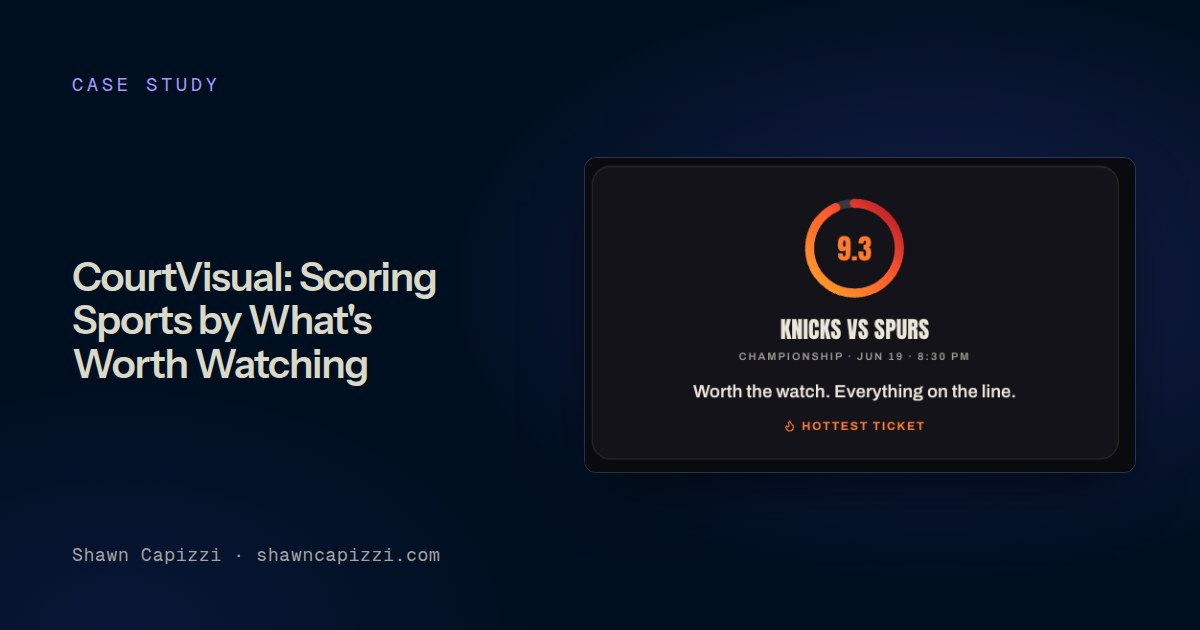
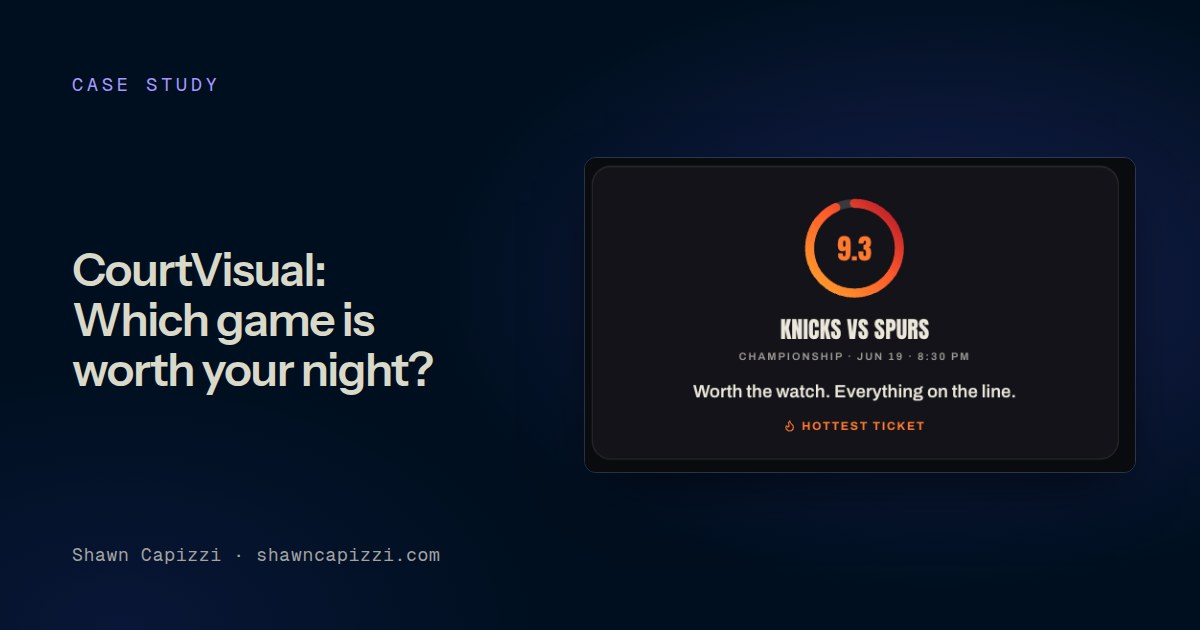
Work pages: outcome headlines, keyword search titles, hyphen-safe titles, refreshed share images

Changed region(s): [[0.0617, 0.3921, 0.37, 0.6333]]

diff --git a/app/work/page.tsx b/app/work/page.tsx
@@ -3,19 +3,20 @@ import Image from "next/image";
 import Link from "next/link";
 import { pageMetadata } from "@/lib/seo";
 import { CTACards } from "@/components/CTACards";
+import { KeepHyphens } from "@/components/KeepHyphens";
 
 export const metadata = pageMetadata({
   path: "/work",
-  title: "Selected Work",
+  title: "Work: Service Design and UX Case Studies",
   description:
-    "Fifteen years of enterprise experience design across pharma, healthcare, and finance. Engagements where the structure of the experience changed the structure of the business outcome.",
+    "Case studies in service design, experience architecture, UX, CX, design systems, and AI-native product design across pharma, healthcare, and finance.",
 });
 
 const CASE_STUDIES = [
   {
     slug: "pharma-design-systems",
     eyebrow: "Multi-Brand · 3x Design Systems · Governance",
-    title: "Building digital governance across 70+ therapeutic brands",
+    title: "Bringing 70+ pharma brands under one governance model",
     description:
       "$3.5M+ in digital transformation. Three enterprise design systems. Industry-first mobile wallet integration for patient medication information.",
     image: "/images/hero/consumer-care-hub-hero-balanced.gif",
@@ -23,8 +24,7 @@ const CASE_STUDIES = [
   {
     slug: "enterprise-financial-services-crm",
     eyebrow: "Bloomberg · Financial services · Enterprise CRM",
-    title:
-      "Redesigning rep workflows in a terminal-driven CRM environment",
+    title: "Redesigning a terminal-based CRM to return $1.5M+ annually",
     description:
       "$1.5M+ in annual ROI. Architectural inquiry across three rep types. Faster scanability, quicker decisions, measurable time-in-task reduction across the rep experience.",
     image:
@@ -52,8 +52,7 @@ const CASE_STUDIES = [
   {
     slug: "multi-brand-pharma-sales-tools",
     eyebrow: "Multi-Brand Design System · Veeva + Salesforce",
-    title:
-      "A modular sales design system that supports a multi-brand product portfolio",
+    title: "12 fragmented sales tools updated to one optimized new design system",
     description:
       "12 sales tools consolidated into 33 reusable components. Adoption from 65% to 92%. 40% reduction in search time during HCP conversations.",
     image:
@@ -62,7 +61,7 @@ const CASE_STUDIES = [
   {
     slug: "ai-native-product-design-lab",
     eyebrow: "Solo · AI Native Design Lab",
-    title: "Building an AI-native product design lab",
+    title: "How I use AI to get from idea to in-market software faster",
     description:
       "A working AI-native product design practice: UXR tools, prototype agents, healthcare-first applications. Vendor-agnostic AI advisory grounded in hands-on work.",
     image:
@@ -82,12 +81,13 @@ export default function Page() {
         <div className="max-w-content mx-auto px-6 md:px-8 lg:px-12">
           <p className="eyebrow mb-3">Work</p>
           <h1 className="headline-static hero-title text-balance max-w-4xl">
-            Engagements where experience structure changed the business outcome.
+            The work, and what changed because of it.
           </h1>
           <p className="hero-lead max-w-3xl">
-            Fifteen years of enterprise experience design across pharma, healthcare,
-            and finance, alongside live products I designed, built, and shipped
-            myself.
+            Fifteen years of service design, experience architecture, product
+            strategy, UX, CX, and design systems on enterprise platforms in
+            pharma, healthcare, and finance. Plus AI-native products I designed,
+            built, and shipped myself.
           </p>
         </div>
       </section>
@@ -115,7 +115,7 @@ export default function Page() {
                 <div className="p-7 md:p-10">
                   <p className="eyebrow mb-4">{cs.eyebrow}</p>
                   <h2 className="card-title text-text-primary group-hover:text-link transition-colors">
-                    {cs.title}
+                    <KeepHyphens>{cs.title}</KeepHyphens>
                   </h2>
                   <p className="mt-4 text-text-secondary leading-relaxed">
                     {cs.description}

diff --git a/app/work/courtvisual/page.tsx b/app/work/courtvisual/page.tsx
@@ -6,14 +6,14 @@ import { caseStudyGraph, pageMetadata } from "@/lib/seo";
 
 const META = {
   path: "/work/courtvisual",
-  title: "CourtVisual: Scoring Sports by What's Worth Watching",
+  title: "CourtVisual: Which Game Is Worth Your Night?",
   description:
     "A multi-sport app that scores how worth watching tonight's games are, tuned to your taste, then points you where to watch and how to get in. Product, build, and go-to-market shipped solo, concept to live PWA, with AI as the partner.",
   image: {
     url: "/images/og/courtvisual.jpg",
     width: 1200,
     height: 630,
-    alt: "CourtVisual: Scoring Sports by What's Worth Watching, a case study by Shawn Capizzi",
+    alt: "CourtVisual: Which game is worth your night? A case study by Shawn Capizzi",
   },
 };
 
@@ -27,7 +27,7 @@ export default function Page() {
       structuredData={caseStudyGraph(META)}
       eyebrow="(Case Study)"
       title="CourtVisual"
-      subtitle="A multi-sport app that scores how worth watching tonight's games are, tuned to you, then sends you where to watch and how to get in. Product, build, and go-to-market run solo, concept to live PWA, with AI as the build partner."
+      subtitle="Which game is worth your night? A multi-sport app that scores tonight's games 0 to 10, tuned to you, then shows where to watch and how to get in. Designed, built, and shipped solo, concept to live PWA, with AI as the build partner."
       heroImage={`${ASSET_BASE}/02-game-card-score-ring.png`}
       heroImageAlt="CourtVisual home screen: a Knicks game scored 9.3 out of 10, with the team and sport picker"
       heroSlot={

diff --git a/app/work/ai-native-product-design-lab/page.tsx b/app/work/ai-native-product-design-lab/page.tsx
@@ -7,14 +7,14 @@ import { caseStudyGraph, pageMetadata } from "@/lib/seo";
 
 const META = {
   path: "/work/ai-native-product-design-lab",
-  title: "AI-Native Product Design Lab",
+  title: "AI-Native Product Design: Idea to In-Market",
   description:
     "How I design, build, and ship with AI: production software designed and shipped solo, working prototypes in days, and a Figma plugin in the Community.",
   image: {
     url: "/images/og/ai-native-product-design-lab.jpg",
     width: 1200,
     height: 630,
-    alt: "AI-Native Product Design Lab, a case study by Shawn Capizzi",
+    alt: "How I use AI to get from idea to in-market software faster, a case study by Shawn Capizzi",
   },
 };
 
@@ -67,8 +67,8 @@ export default function Page() {
     <CaseStudyLayout
       structuredData={caseStudyGraph(META)}
       eyebrow="(Case Study)"
-      title="AI-Native Product Design Lab"
-      subtitle="How I design, build, and ship with AI. Working prototypes in days, and production software shipped solo, built on years of bringing teams together."
+      title="How I use AI to get from idea to in-market software faster"
+      subtitle="AI-native product design in practice: production software shipped solo, working prototypes in days, and a Figma plugin in the Community."
       heroImage={`${ASSET_BASE}/01-hero-ai-native-design-lab.png`}
       heroImageAlt="AI-Native Design Lab, disease-first patient support hero"
       metadata={[

diff --git a/app/work/pharma-design-systems/page.tsx b/app/work/pharma-design-systems/page.tsx
@@ -7,14 +7,14 @@ import { caseStudyGraph, pageMetadata } from "@/lib/seo";
 
 const META = {
   path: "/work/pharma-design-systems",
-  title: "Pharma Design Systems & Multi-Brand Architecture",
+  title: "Pharma Design Systems for 70+ Brands",
   description:
     "Governing 70+ product brands with 3 design systems. $3.5M+ in digital transformation, three enterprise design systems serving HCP, DTC, and patient audiences, and an industry-first mobile wallet integration.",
   image: {
     url: "/images/og/pharma-design-systems.jpg",
     width: 1200,
     height: 630,
-    alt: "Pharma Design Systems & Multi-Brand Architecture, a case study by Shawn Capizzi",
+    alt: "Bringing 70+ pharma brands under one governance model, a case study by Shawn Capizzi",
   },
 };
 
@@ -25,8 +25,8 @@ export default function Page() {
     <CaseStudyLayout
       structuredData={caseStudyGraph(META)}
       eyebrow="(Case Study)"
-      title="Pharma Design Systems & Multi-Brand Architecture"
-      subtitle="Governing 70+ product brands across 3 design systems and $3.5M+ in digital transformation."
+      title="Bringing 70+ pharma brands under one governance model"
+      subtitle="Three design systems for HCP, DTC, and patient audiences, and $3.5M+ in digital transformation."
       heroImage="/images/hero/consumer-care-hub-hero-balanced.gif"
       heroImageAlt="Consumer care hub homepage. A new offer to help Americans save."
       metadata={[

diff --git a/app/work/enterprise-financial-services-crm/page.tsx b/app/work/enterprise-financial-services-crm/page.tsx
@@ -5,14 +5,14 @@ import { caseStudyGraph, pageMetadata } from "@/lib/seo";
 
 const META = {
   path: "/work/enterprise-financial-services-crm",
-  title: "Enterprise Financial Services CRM Transformation",
+  title: "Bloomberg CRM Redesign: $1.5M+ Annual ROI",
   description:
     "Redesigning rep workflows inside a terminal-driven CRM environment used company-wide. Architectural inquiry across three salesperson types. $1.5M+ in annual ROI.",
   image: {
     url: "/images/og/enterprise-financial-services-crm.jpg",
     width: 1200,
     height: 630,
-    alt: "Enterprise Financial Services CRM Transformation, a case study by Shawn Capizzi",
+    alt: "Redesigning a terminal-based CRM to return $1.5M+ annually, a case study by Shawn Capizzi",
   },
 };
 
@@ -26,8 +26,8 @@ export default function Page() {
     <CaseStudyLayout
       structuredData={caseStudyGraph(META)}
       eyebrow="(Case Study)"
-      title="Enterprise Financial Services CRM Transformation"
-      subtitle="Redesigning rep workflows inside a terminal-driven CRM environment used company-wide."
+      title="Redesigning a terminal-based CRM to return $1.5M+ annually"
+      subtitle="A faster, clearer workflow built around the way three distinct salesperson types actually worked."
       heroImage={`${ASSET_BASE}/01-hero-final-person-view-terminal.png`}
       heroImageAlt="Final Person View in terminal CRM environment"
       metadata={[

diff --git a/app/work/multi-brand-pharma-sales-tools/page.tsx b/app/work/multi-brand-pharma-sales-tools/page.tsx
@@ -7,14 +7,14 @@ import { caseStudyGraph, pageMetadata } from "@/lib/seo";
 
 const META = {
   path: "/work/multi-brand-pharma-sales-tools",
-  title: "Multi-Brand Sales Design System",
+  title: "Pharma Sales Design System, 92% Adoption",
   description:
     "A modular sales design system consolidating 12 fragmented tools across a multi-brand neurological portfolio. 33 reusable components. Adoption from 65% to 92%.",
   image: {
     url: "/images/og/multi-brand-pharma-sales-tools.jpg",
     width: 1200,
     height: 630,
-    alt: "Multi-Brand Sales Design System, a case study by Shawn Capizzi",
+    alt: "12 fragmented sales tools updated to one optimized new design system, a case study by Shawn Capizzi",
   },
 };
 
@@ -28,8 +28,8 @@ export default function Page() {
     <CaseStudyLayout
       structuredData={caseStudyGraph(META)}
       eyebrow="(Case Study)"
-      title="Multi-Brand Sales Design System"
-      subtitle="Consolidating 12 fragmented tools into 33 reusable components across a multi-brand neurological portfolio. Adoption climbed from 65% to 92%."
+      title="12 fragmented sales tools updated to one optimized new design system"
+      subtitle="Adoption rose from 65% to 92%, while search time fell 40%."
       heroImage={`${ASSET_BASE}/01-hero-lead-brand-wireframe-to-product.png`}
       heroImageAlt="Lead MS brand homepage wireframe alongside the finished product"
       metadata={[

diff --git a/components/KeepHyphens.tsx b/components/KeepHyphens.tsx
@@ -1,0 +1,28 @@
+import { Fragment, type ReactNode } from "react";
+
+/**
+ * KeepHyphens: renders a headline string so hyphenated words
+ * ("in-market", "terminal-based") never break at the hyphen.
+ *
+ * Browsers treat a hyphen as a line-break opportunity, and Instrument Sans
+ * has no non-breaking hyphen glyph (U+2011), so each hyphenated word is
+ * wrapped in a nowrap span instead. Anything that is not a plain string
+ * passes through untouched.
+ */
+export function KeepHyphens({ children }: { children: ReactNode }) {
+  if (typeof children !== "string") return <>{children}</>;
+  const parts = children.split(/(\S*\w-\w\S*)/);
+  return (
+    <>
+      {parts.map((part, i) =>
+        i % 2 === 1 ? (
+          <span key={i} className="whitespace-nowrap">
+            {part}
+          </span>
+        ) : (
+          <Fragment key={i}>{part}</Fragment>
+        )
+      )}
+    </>
+  );
+}

diff --git a/components/CaseStudyLayout.tsx b/components/CaseStudyLayout.tsx
@@ -6,6 +6,7 @@ import { BrowserFrame } from "@/components/BrowserFrame";
 import { VideoWithPlayOverlay } from "@/components/VideoWithPlayOverlay";
 import { CollapsibleSection } from "@/components/CollapsibleSection";
 import { JsonLd } from "@/components/JsonLd";
+import { KeepHyphens } from "@/components/KeepHyphens";
 
 const CAL_URL = "https://cal.com/capizzi/30min";
 
@@ -143,7 +144,7 @@ export function CaseStudyLayout(props: CaseStudyLayoutProps) {
 
           <p className="eyebrow mb-3">{props.eyebrow}</p>
           <h1 className="headline-static hero-title text-balance max-w-4xl">
-            {props.title}
+            <KeepHyphens>{props.title}</KeepHyphens>
           </h1>
           <p className="hero-lead max-w-3xl">
             {props.subtitle}
